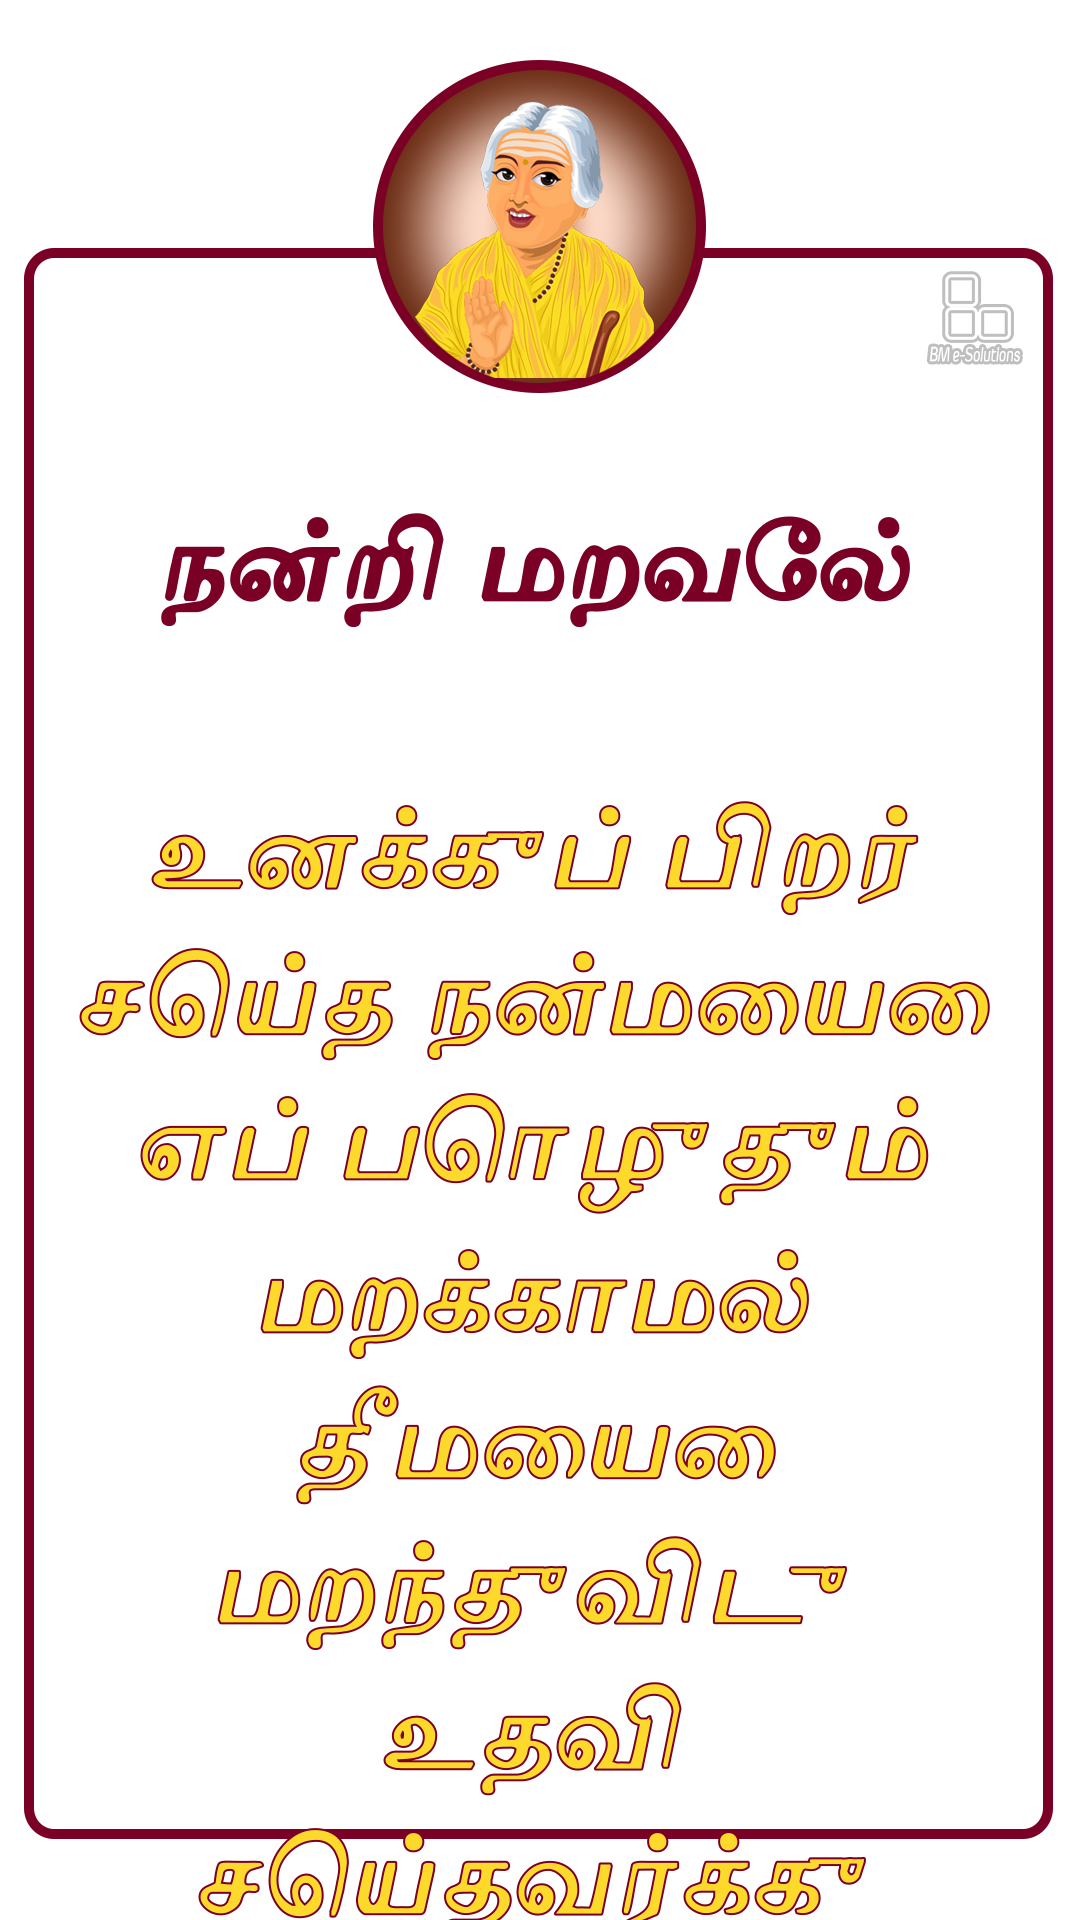
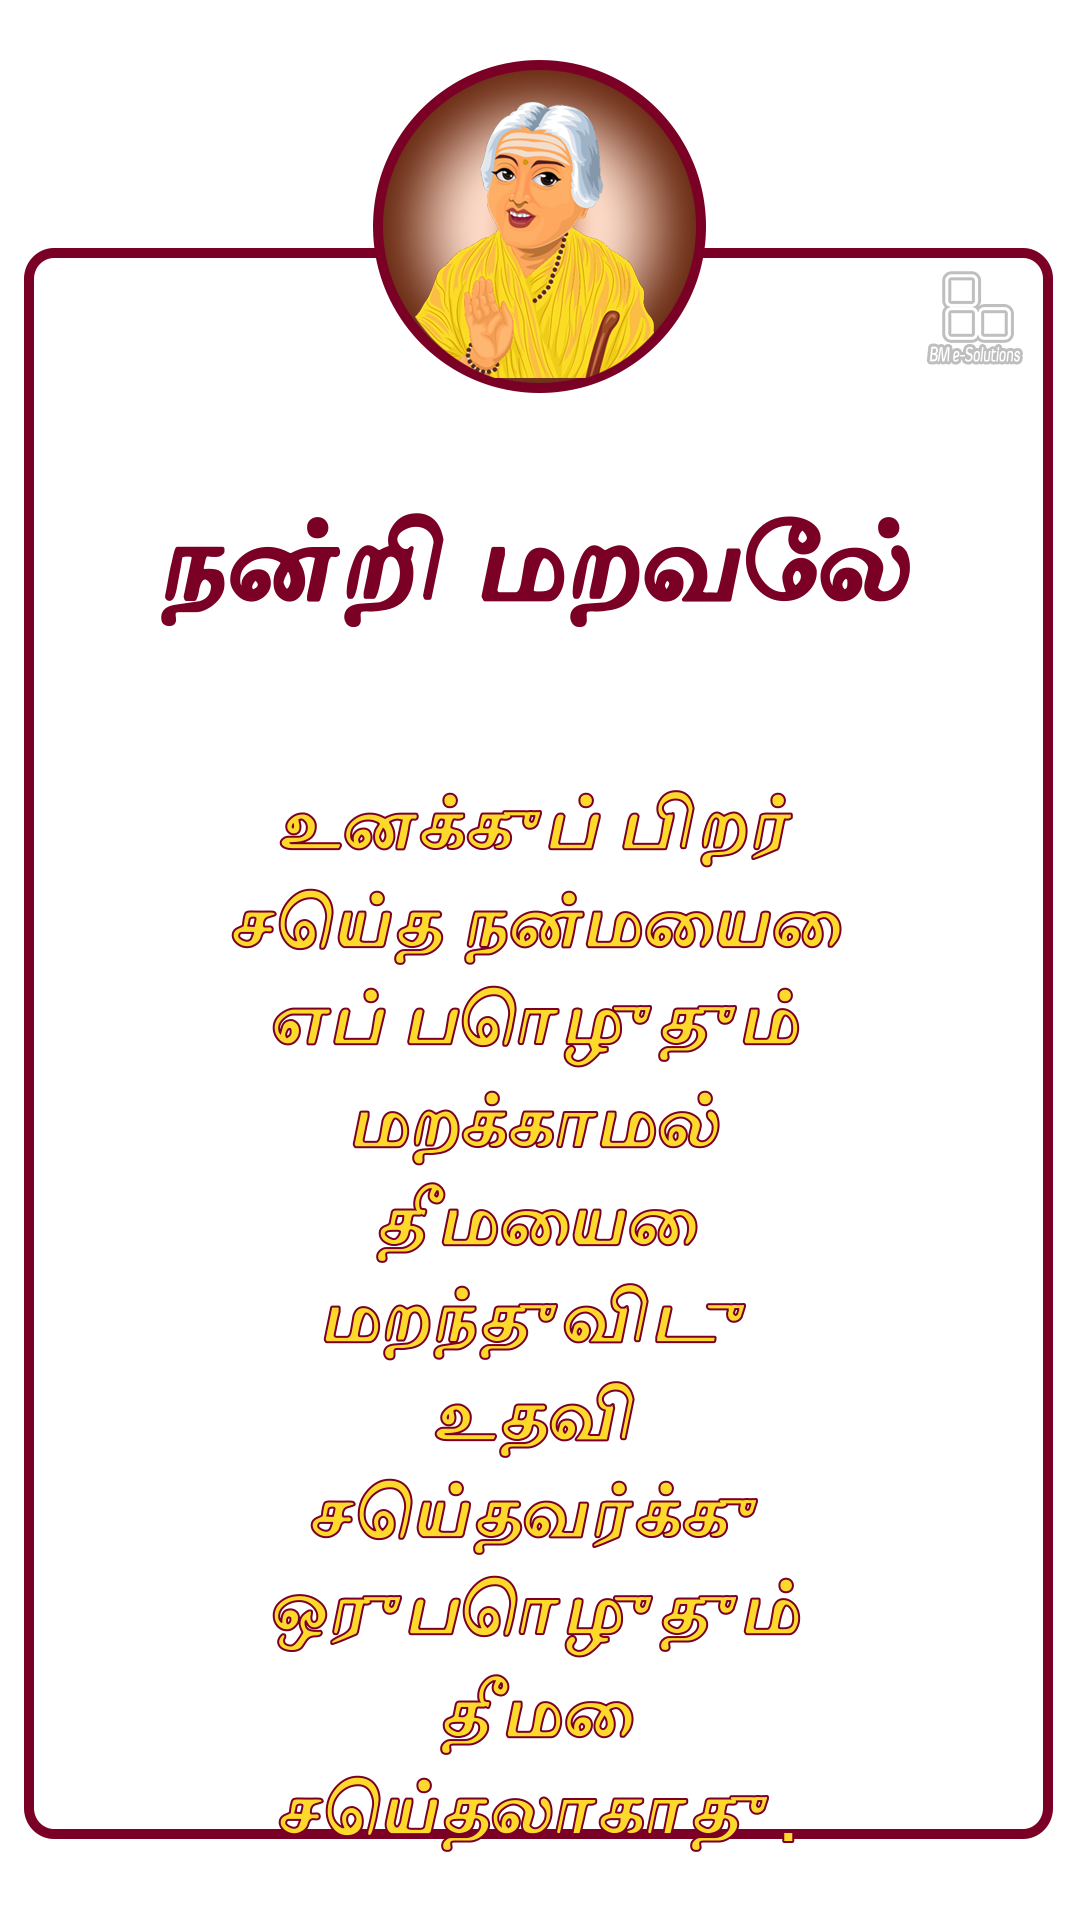
hi

Changed region(s): [[0.0611, 0.4062, 0.9167, 1.0]]

diff --git a/Placement/line.py b/Placement/line.py
@@ -15,11 +15,9 @@ object = json.loads(jsondata)
 
 mylist = object['athisudi']
 
-image_path = "Placement/images"
-
 for i in range(len(mylist)):
 
-    def draw_text_to_image(image, text, font,text_colour, text_start_height, stroke_colour):
+    def draw_text_to_image(image,width,text, font,text_colour, text_start_height, stroke_colour):
         draw = ImageDraw.Draw(img)
         image_width, image_height = image.size
         y_text = text_start_height
@@ -30,40 +28,55 @@ for i in range(len(mylist)):
             fill = text_colour, stroke_width=2,stroke_fill=stroke_colour)
             y_text += line_height
         
-
+    ###### Retrieving the text from the json file ######
     peom = mylist[i].get("poem")
     paraphrase = mylist[i].get("paraphrase")
     translation = mylist[i].get("translation")
-    # thislist.append(mylist[i].get("state"))
+    
+    print("length: ",len(paraphrase))
+
+    fontsize= 120
+
+    if len(paraphrase) >80:
+        fontsize=80
+
+    ###### opening the image template ######
 
     img = Image.open('Placement/aathichoodi_template.png')
     width = img.width
     height = img.height
     #print("Image width: ", width)
 
+    ###### Setting the colours ######
+
     peom_text_colour = "#7A0026"
     peom_stroke_colour = "#7A0026"
     paraphrase_text_colour = "#FCD92B"
     paraphrase_stroke_colour = "#7A0026"
 
-   
+    ###### setting the fonts ######
+
     #fnt = ImageFont.truetype("st_024.tff",90, layout_engine=ImageFont.LAYOUT_RAQM)
     #fnt2 = ImageFont.truetype("latha.ttf", 50, layout_engine=ImageFont.LAYOUT_RAQM)
     # fnt = ImageFont.truetype("Arial", 15)
+
     fnt_peom = ImageFont.truetype("Placement/akshar.TTF", 120)
-    fnt_paraphrase = ImageFont.truetype("Placement/akshar.TTF", 120)
+    fnt_paraphrase = ImageFont.truetype("Placement/akshar.TTF", fontsize)
+    
+    ###### Drawing the text onto the image ######
 
     # draw.text((width/2,height/4), peom, font= fnt, fill = (0,0,0), anchor="ma") 
     # draw.text((width / 2, height / 2), paraphrase, font= fnt, fill=(0, 0, 0), anchor="ma") 
     # draw.text((width / 2, height*0.75), translation, font= fnt,fill=(0, 0, 0), anchor="ma")
 
-    draw_text_to_image(img,peom,fnt_peom,peom_text_colour,height/4,paraphrase_stroke_colour )
-    draw_text_to_image(img,paraphrase,fnt_paraphrase,paraphrase_text_colour,height/2.5, paraphrase_stroke_colour)
+    draw_text_to_image(img,width,peom,fnt_peom,peom_text_colour,height/4,paraphrase_stroke_colour )
+    draw_text_to_image(img,width,paraphrase,fnt_paraphrase,paraphrase_text_colour,height/2.5, paraphrase_stroke_colour)
     #draw_text_to_image(img,translation,fnt,height*0.75)
 
+    ###### Saving the image ######
     img.save("Placement/images/new%s.png" % i)
 
-    # if i == 0:
+    # if i == 5:
     #     my_file = Path("Placement/images/new%s.png") 
     #     if my_file.is_file():
     #         print("replace")
@@ -73,7 +86,7 @@ for i in range(len(mylist)):
 
     print(i+1)
     
-print("done")
+print("Images Successfully created")
 
 
 

diff --git a/Placement/work.py b/Placement/work.py
@@ -49,13 +49,13 @@ for i in range(len(mylist)):
         offset += fnt.getsize(line)[1]
     img.save("Placement/images/new%s.png" % i)
 
-    # if i == 0:
-    #     my_file = Path("Placement/images/new%s.png") 
-    #     if my_file.is_file():
-    #         print("replace")
-    #     else:
-    #         print("okay")
-    #     break
+    if i == 4:
+        my_file = Path("Placement/images/new%s.png") 
+        if my_file.is_file():
+            print("replace")
+        else:
+            print("okay")
+        break
 
     print(i+1)
     
